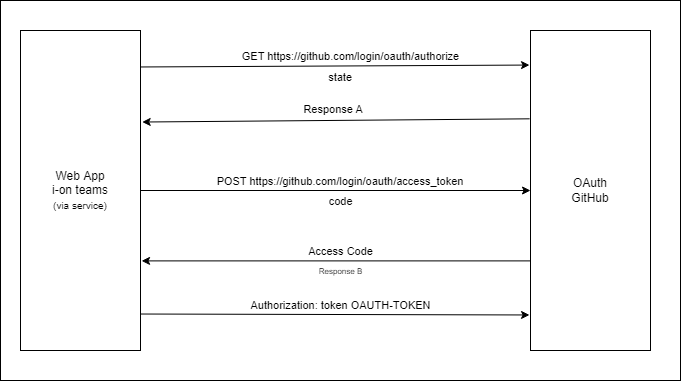
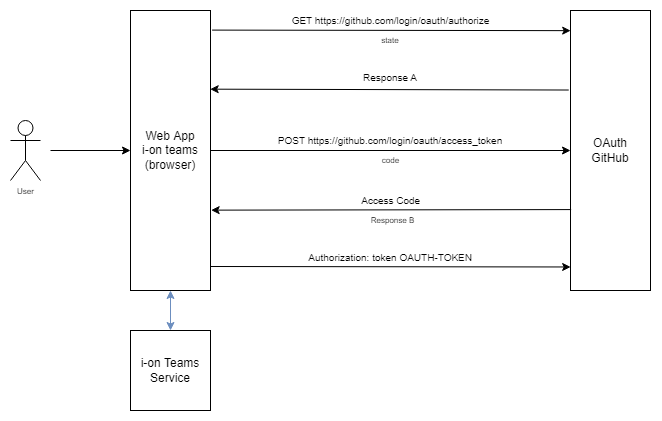
Auth schema and docs updated.

diff --git a/docs/auth/Auth.md b/docs/auth/Auth.md
@@ -18,7 +18,7 @@ ____
 
 ## Authorizing Users
 
-Users will be authorized via ``OAuth App`` (GitHub), using [Web Application Flow](#web-application-flow) for the student and [Device flow](#device-flow) for the teacher.
+Users will be authorized via ``OAuth App`` (GitHub), using [Web Application Flow](#web-application-flow).
 
 ### Web Application Flow
 
@@ -28,18 +28,15 @@ Users will be authorized via ``OAuth App`` (GitHub), using [Web Application Flow
 - Response A - Contains the ``code``, that is temporary and will expire after 10 minutes, and ``state`` initially passed in the first request.
 - Response B - returns the Access Token. We can specify the format we want (e.g. application/json)
 
-- Student Scopes - lists the scopes your token has authorized
+### Scopes
+
+  When setting up an OAuth App on GitHub, requested scopes are displayed to the user on the authorization form.
+
+- Student scopes:
   - ``read:user``- Grants access to read a user's profile data.
   - ``write:repo_hook`` - Grants read, write, and ping access to hooks in public or private repositories.
 
-### Device Flow
-
-<div style="text-align:center"><img src="./Authorizing_OAuth_Device.png" /></div>
-
-- Response A - returns the Device code. We can specify the format we want (e.g. application/json)
-- Response B - returns the Access Token. We can specify the format we want (e.g. application/json)
-
-- Teacher Scopes - lists the scopes your token has authorized
+- Teacher scopes
   - ``read:user``- Grants access to read a user's profile data.
   - ``admin:org`` - Fully manage the organization and its teams, projects, and memberships.
   - ``write:org`` - Read and write access to organization membership, organization projects, and team membership.
@@ -58,7 +55,7 @@ ___
 - ``client_ID``
 - ``client_secret`` (encrypted)
 - ``code``
-- For the teacher both access token and device code are stored locally
+- For the teacher both ``access`` token are stored locally
 _____
 ## GitHub documentation
 
